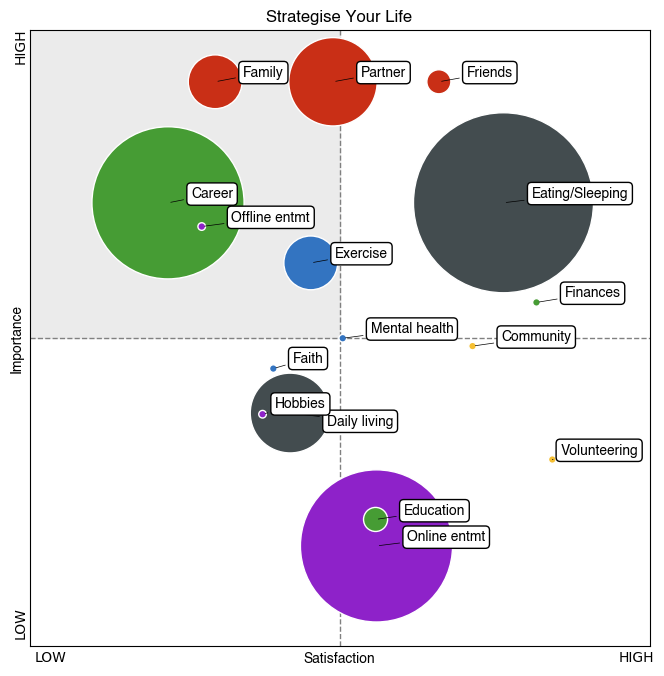
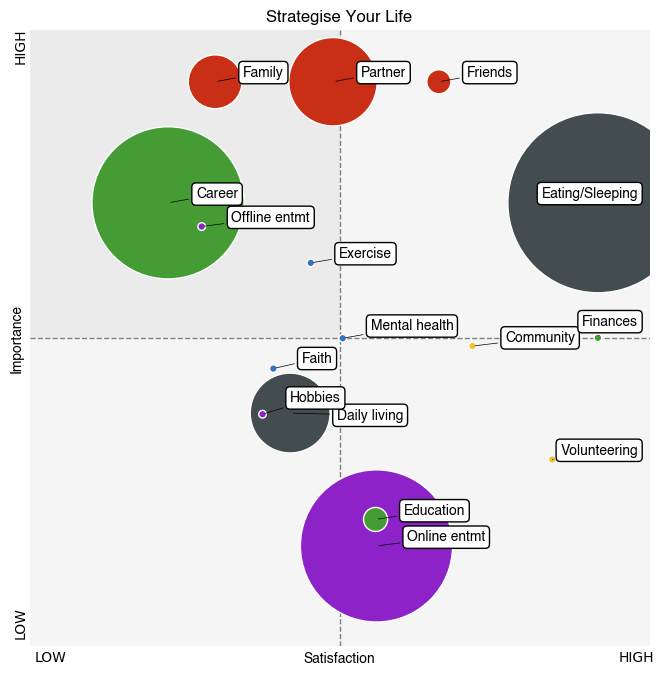
visual and html clean up

diff --git a/website/templates/base.html b/website/templates/base.html
@@ -14,7 +14,7 @@
       href="https://stackpath.bootstrapcdn.com/font-awesome/4.7.0/css/font-awesome.min.css"
       crossorigin="anonymous"
     />
-    <title>{% block title %}Home{% endblock %}</title>
+    <title>Strategise Your Life</title>
   </head>
   <body>
     <h1>Strategise Your Life</h1>

diff --git a/website/templates/home.html b/website/templates/home.html
@@ -1,5 +1,4 @@
 {% extends "base.html" %} 
-{% block title %}Strategise Your Life{% endblock %}
 
 {% block table_content %}
 <form method="POST">

diff --git a/website/visuals.py b/website/visuals.py
@@ -80,11 +80,24 @@ def CreateVisual():
   ax.annotate("LOW", (-10,-10), xytext=(-9,-13))
 
   #adding top left rec to help call out
-  rec = plt.Rectangle((-10,50), 60, 110, color="#ebebeb", zorder=0)
-  ax.add_patch(rec)
+  recTL = plt.Rectangle((-10,50), 60, 110, color="#ebebeb", zorder=0)
+  ax.add_patch(recTL)
+
+  recTR = plt.Rectangle((50,50), 60, 110, color="#f5f5f5", zorder=0)
+  ax.add_patch(recTR)
+
+  recBL = plt.Rectangle((-10,-10), 60, 60, color="#f5f5f5", zorder=0)
+  ax.add_patch(recBL)
+
+  recBR = plt.Rectangle((50,-10), 60, 60, color="#f5f5f5", zorder=0)
+  ax.add_patch(recBR)
 
   # Turn off tick labels
   ax.set_xticks([])
   ax.set_yticks([])
+  ax.spines['top'].set_visible(False)
+  ax.spines['bottom'].set_visible(False)
+  ax.spines['left'].set_visible(False)
+  ax.spines['right'].set_visible(False)
 
   plt.savefig('website/static/visual.png', bbox_inches='tight') 
